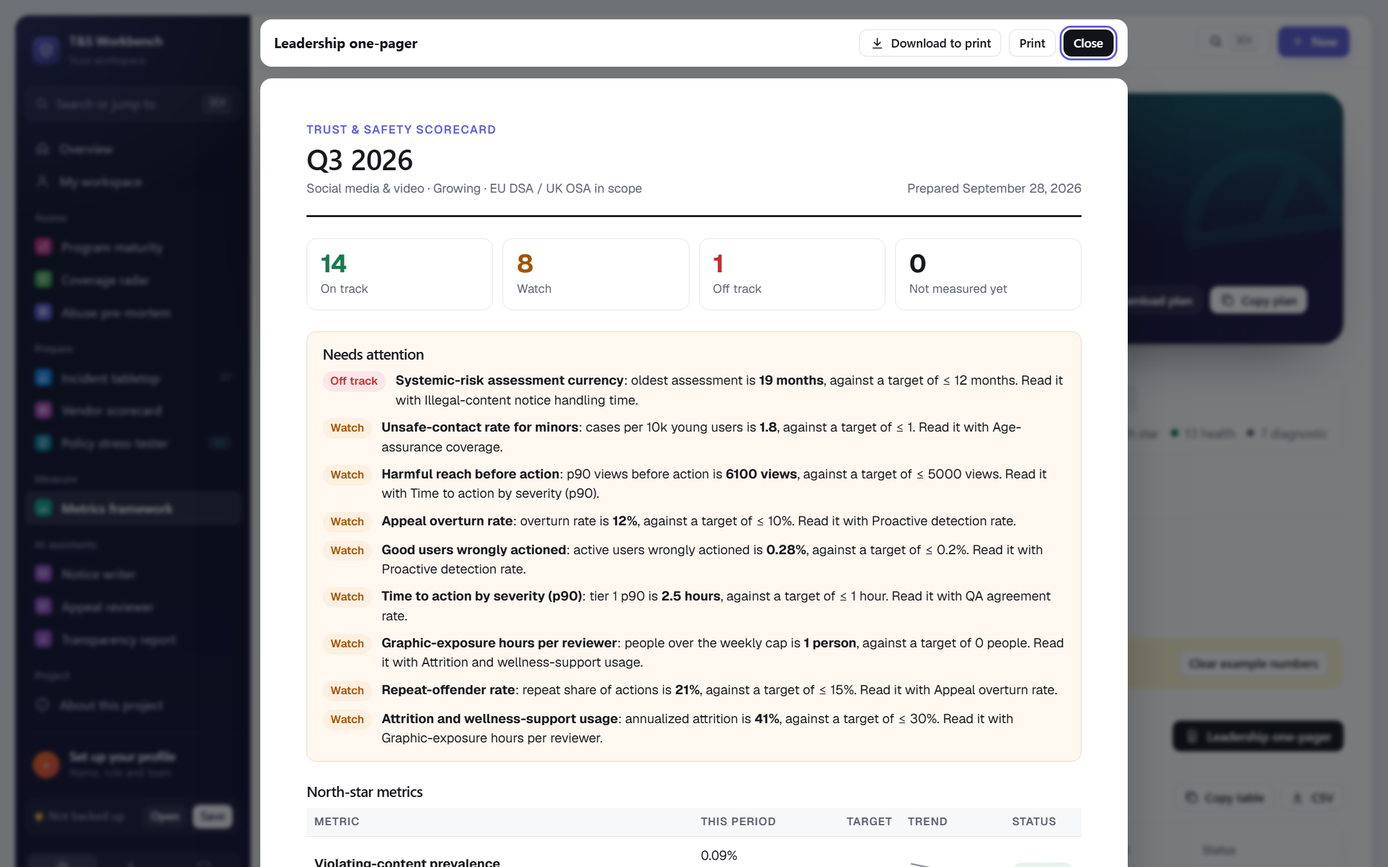
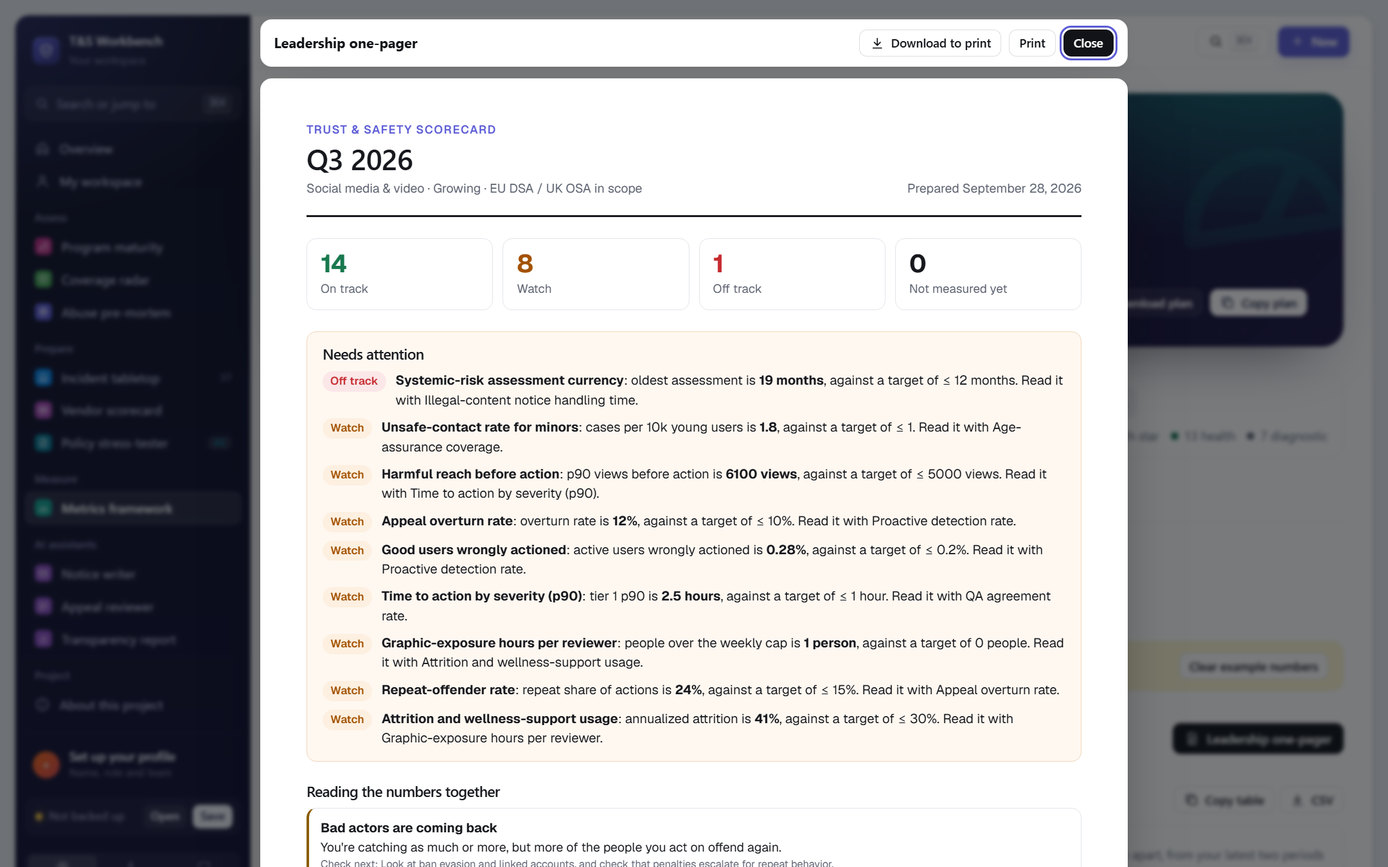
Metrics: read the numbers together, with signals on the scorecard and one-pager

diff --git a/docs/index.html b/docs/index.html
@@ -2894,6 +2894,26 @@ body.tt-present .ttf-play{grid-template-columns:minmax(0,1fr) 360px}
 .gt:focus-visible{outline:2px solid var(--accent);outline-offset:2px;border-radius:3px}
 #gt-tip{position:fixed;z-index:70;padding:9px 12px;border-radius:10px;background:var(--ink);color:var(--bg);font-size:13px;line-height:1.5;box-shadow:var(--shadow-lift);pointer-events:none}
 @media (max-width:640px){.wb{flex-wrap:wrap}.wb-t{flex-basis:calc(100% - 90px)}.wb .btn{order:3;width:100%;justify-content:center}.ph-help{margin-left:0}}
+
+/* ---------- Metrics: reading the numbers together ---------- */
+.mx-sig{padding:18px 20px;margin:0 0 16px}
+.mx-sig-h{display:flex;align-items:baseline;justify-content:space-between;gap:6px 16px;flex-wrap:wrap;margin-bottom:12px}
+.mx-sig-h h3{margin:0;font-size:17px;letter-spacing:-.01em}
+.mx-sig .note{margin:0}
+.mx-sig-l{list-style:none;margin:0;padding:0;display:grid;grid-template-columns:repeat(auto-fit,minmax(min(100%,300px),1fr));gap:12px}
+.mx-sig-i{padding:14px 16px;border-radius:12px;background:var(--surface-2);border:1px solid var(--line);border-left:3px solid var(--med)}
+.mx-sig-i.good{border-left-color:var(--good)}
+.mx-sig-tone{font-size:11.5px;font-weight:600;letter-spacing:.04em;text-transform:uppercase;color:var(--med)}
+.mx-sig-i.good .mx-sig-tone{color:var(--good)}
+.mx-sig-i h4{margin:4px 0 6px;font-size:15.5px;letter-spacing:-.01em}
+.mx-sig-i p{margin:0 0 6px;font-size:14px;line-height:1.55;color:var(--muted)}
+.mx-sig-i p:last-child{margin:0}
+.mx-sig-why{font-size:13px!important}
+.mx-sig-why .mx-link,.mx-sig-why b{color:var(--ink);font-weight:600}
+.mx-sig-and{color:var(--faint)}
+.mx-sig-d{font-size:12.5px;white-space:nowrap}
+.mx-sig-d.good{color:var(--good)}.mx-sig-d.crit{color:var(--high)}
+.mx-sig-c b{color:var(--ink)}
 </style>
 
 <svg width="0" height="0" style="position:absolute" aria-hidden="true">
@@ -6949,7 +6969,7 @@ const MX_DEMO = {
   "Romance-scam reports per 10k matches":[2, 4, [4.6, 3.9, 3.1, 1.9]],
   "Verified-profile share":[60, 40, [31, 38, 47, 55]],
   "User-report rate":[3, 8, [4.2, 4.8, 5.1, 4.6]],
-  "Repeat-offender rate":[15, 25, [29, 27, 24, 21]],
+  "Repeat-offender rate":[15, 25, [29, 27, 22, 24]],
   "Proactive detection rate":[80, 65, [68, 72, 77, 81]],
   "Precision and recall by policy area":[90, 80, [84, 86, 88, 91]],
   "Time to detect emerging trends":[3, 7, [11, 9, 6, 4]],
@@ -6973,6 +6993,11 @@ const MX_DEMO = {
 
 // The one-pager is a paper document, so it uses fixed light colors in the app and in the downloaded file
 const MX_OP_CSS = `
+  .op-sig ul{list-style:none;margin:0;padding:0;display:grid;gap:10px}
+  .op-sig li{padding:10px 12px;border-radius:10px;border:1px solid #e3e5ea;border-left:3px solid #8A5D00;font-size:13px;line-height:1.5}
+  .op-sig li.good{border-left-color:#1C7550}
+  .op-sig li b{display:block;font-size:13.5px}
+  .op-sig li small{display:block;color:#5F6573}
 .mxop{--ink:#16181d;--muted:#5d6370;--line:#e3e5ea;--good:#18794e;--med:#a35200;--crit:#c62a2f;--acc:#5b5bd6;
   font:14px/1.5 Geist,ui-sans-serif,system-ui,-apple-system,"Segoe UI",sans-serif;color:var(--ink);background:#fff;max-width:900px;margin:0 auto;padding:44px 48px;box-sizing:border-box}
 .mxop *{box-sizing:border-box}
@@ -7019,6 +7044,83 @@ const MX_OP_PRINT = `
   .mxop-bar{display:none !important}
   .mxop{box-shadow:none !important;margin:0 !important;border-radius:0 !important}
 }`;
+
+/* ---------- Reading the numbers together ---------- */
+// Pairs of metrics whose movements mean more together than apart. Directions compare the latest two periods;
+// "notup" is flat or down, "notdown" is flat or up. The first rule with a given title wins.
+const MX_SIG = [
+  {a:"Proactive detection rate", da:"up", b:"Appeal overturn rate", db:"up", tone:"watch", t:"Automation may be over-enforcing",
+    m:"You're catching more before anyone reports it, but more of your decisions are being reversed on appeal.",
+    c:"Split overturns by enforcement source. If automated decisions are overturned more often than human ones, tighten thresholds where proactive detection grew."},
+  {a:"Proactive detection rate", da:"up", b:"Good users wrongly actioned", db:"up", tone:"watch", t:"Automation may be over-enforcing",
+    m:"You're catching more before anyone reports it, and more legitimate users are being caught with it.",
+    c:"Find which detections produced the wrongful actions, and raise their thresholds or send them to human review."},
+  {a:"Proactive detection rate", da:"up", b:"Violating-content prevalence", db:"notdown", tone:"watch", t:"More enforcement, but people see as much harm",
+    m:"Detection is catching more, yet the share of harmful content people actually see hasn't fallen.",
+    c:"Check whether the extra detections are low-reach content. Compare harmful reach before action for what you catch against what users report."},
+  {a:"Repeat-offender rate", da:"up", b:"Proactive detection rate", db:"notdown", tone:"watch", t:"Bad actors are coming back",
+    m:"You're catching as much or more, but more of the people you act on offend again.",
+    c:"Look at ban evasion and linked accounts, and check that penalties escalate for repeat behavior."},
+  {a:"Time to action by severity (p90)", da:"down", b:"QA agreement rate", db:"down", tone:"watch", t:"Speed may be costing accuracy",
+    m:"Decisions are getting faster while reviewers agree with QA less often.",
+    c:"Look at QA disagreements by queue and reviewer tenure, and check whether SLA pressure is rushing the hard cases."},
+  {a:"SLA attainment", da:"up", b:"Backlog age", db:"up", tone:"watch", t:"The SLA may be hiding old cases",
+    m:"You're meeting the SLA more often, but the oldest cases are waiting longer. Teams often hit an SLA by working the easy cases first.",
+    c:"Break backlog age down by severity, and check which queues the SLA clock leaves out."},
+  {a:"Harmful reach before action", da:"up", b:"Time to action by severity (p90)", db:"notup", tone:"watch", t:"Harm spreads before you see it",
+    m:"Review is at least as fast as before, but harmful content reaches more people first. The delay is in detection, not review.",
+    c:"Check time to detect and proactive coverage for fast-spreading formats such as live video and reshares."},
+  {a:"Cost per decision", da:"down", b:"QA agreement rate", db:"down", tone:"watch", t:"Savings may be coming out of quality",
+    m:"Each decision costs less, and quality is slipping at the same time.",
+    c:"Check where the savings came from, such as a new vendor site, less training or more automation, and whether quality fell in the same places."},
+  {a:"Cost per decision", da:"down", b:"Appeal overturn rate", db:"up", tone:"watch", t:"Savings may be coming out of quality",
+    m:"Each decision costs less, and more of them are being reversed on appeal.",
+    c:"Check where the savings came from and whether overturns rose in the same queues."},
+  {a:"Graphic-exposure hours per reviewer", da:"up", b:"Attrition and wellness-support usage", db:"up", tone:"watch", t:"Reviewer strain is building",
+    m:"Reviewers are seeing more graphic content, and attrition or wellness-support use is rising with it.",
+    c:"Check exposure caps and rotation, and talk to your vendor about staffing before quality drops."},
+  {a:"User-report rate", da:"down", b:"Users who feel safe", db:"down", tone:"watch", t:"Fewer reports, but people feel less safe",
+    m:"Reports are falling while fewer users say they feel safe. People may have stopped reporting because they don't expect anything to happen.",
+    c:"Check how often reports lead to action and whether reporters hear back."},
+  {a:"Jailbreak success rate", da:"down", b:"Over-refusal rate", db:"up", tone:"watch", t:"Safer model, more refusals",
+    m:"Attacks succeed less often, but the model refuses more reasonable requests. It may be getting safer by being less useful.",
+    c:"Break refusals down by category and fix the ones that block legitimate use."},
+  {a:"Violating-generation rate", da:"down", b:"Over-refusal rate", db:"up", tone:"watch", t:"Safer model, more refusals",
+    m:"The model produces less violating output, but refuses more reasonable requests.",
+    c:"Break refusals down by category and fix the ones that block legitimate use."},
+  {a:"Account takeover rate", da:"up", b:"Fraud loss rate", db:"up", tone:"watch", t:"Account takeovers may be driving losses",
+    m:"More accounts are being taken over, and fraud losses are rising with them.",
+    c:"Measure how much of the loss comes from taken-over accounts, and review login protections such as multi-factor sign-in."},
+  {a:"Violating-content prevalence", da:"down", b:"Appeal overturn rate", db:"notup", tone:"good", t:"Real progress",
+    m:"People see less harmful content, and your mistakes haven't risen to get there.",
+    c:"Tell leadership what drove it, so it gets protected in planning."},
+  {a:"User-report rate", da:"down", b:"Users who feel safe", db:"up", tone:"good", t:"Fewer reports because there's less to report",
+    m:"Reports fell while more users say they feel safe, which points to less harm rather than less trust in reporting.",
+    c:"Confirm it with prevalence sampling before you plan around it."}
+];
+// The direction of a metric's latest change: up, down or flat (under 2% of the earlier value)
+function mxMove(m){
+  const s = mxSeries(m); if(s.length < 2) return null;
+  const a = s[s.length - 2].v, b = s[s.length - 1].v, d = b - a;
+  return Math.abs(d) <= Math.max(Math.abs(a) * 0.02, 1e-9) ? "flat" : d > 0 ? "up" : "down";
+}
+function mxSignals(){
+  const byName = n => METRICS.find(m => m.n === n), fits = (mv, want) => mv && (mv === want || (want === "notup" && mv !== "up") || (want === "notdown" && mv !== "down"));
+  const seen = new Set(), out = [];
+  MX_SIG.forEach(r => { if(seen.has(r.t)) return; const A = byName(r.a), B = byName(r.b); if(!A || !B) return;
+    if(fits(mxMove(A), r.da) && fits(mxMove(B), r.db)){ seen.add(r.t); out.push(Object.assign({A, B}, r)); } });
+  return out.sort((x, y) => (x.tone === "good") - (y.tone === "good"));
+}
+function mxSigHTML(list, onePager){
+  const withTrend = METRICS.filter(m => mxSeries(m).length >= 2).length, sig = mxSignals();
+  if(onePager) return sig.length ? `<section class="op-sig"><h2>Reading the numbers together</h2><ul>${sig.slice(0, 4).map(s => `<li class="${s.tone}"><b>${esc(s.t)}</b>${esc(s.m)}<small>Check next: ${esc(s.c)}</small></li>`).join("")}</ul></section>` : "";
+  const name = m => { const d = mxDelta(m), i = METRICS.indexOf(m); return `${list.includes(m) ? `<button type="button" class="mx-link" data-go="${i}">${esc(m.n)}</button>` : `<b>${esc(m.n)}</b>`}${d ? ` <span class="mx-sig-d ${d.good}">${esc(d.text)}</span>` : ""}`; };
+  const body = !withTrend ? `<p class="note">Save two periods to history and this reads your metrics together: for example, whether more automation is also causing more mistakes, or whether a healthy SLA is hiding old cases.</p>`
+    : !sig.length ? `<p class="note">No patterns to flag between your metrics this period. ${withTrend < 4 ? "Track a few more metrics over time to get more out of this." : ""}</p>`
+    : `<ul class="mx-sig-l">${sig.slice(0, 5).map(s => `<li class="mx-sig-i ${s.tone}"><span class="mx-sig-tone">${s.tone === "good" ? "Good sign" : "Worth a look"}</span><h4>${esc(s.t)}</h4>
+        <p class="mx-sig-why">${name(s.A)} <span class="mx-sig-and">with</span> ${name(s.B)}</p><p>${esc(s.m)}</p><p class="mx-sig-c"><b>Check next:</b> ${esc(s.c)}</p></li>`).join("")}</ul>`;
+  return `<div class="mx-sig-h"><h3>What your numbers are telling you</h3><span class="note">Pairs of metrics that mean more together than apart, from your latest two periods</span></div>${body}`;
+}
 
 /* ---------- Metrics: child-safety reporting, user sentiment, wrongful enforcement, law-enforcement requests ---------- */
 METRICS.push(
@@ -7462,6 +7564,7 @@ function mxTabMine(list){
     <span class="mxs-hist" id="mx-hist">${mxHistHTML()}</span>
     <span class="mxs-act">${mx.demo ? "" : `<button type="button" class="btn sm" id="mx-demo">See example numbers</button>`}<button type="button" class="btn sm" id="mx-sc-copy">${icon("copy")}Copy table</button>${DL ? `<button type="button" class="btn sm" id="mx-sc-csv"><svg><use href="#i-download"/></svg>CSV</button>` : ""}</span>
   </div>
+  <div class="card mx-sig" id="mx-sig">${mxSigHTML(list)}</div>
   <div class="card mx-sc">
     <div class="mx-sc-row h"><span>Metric</span><span>Your value</span><span>Target</span><span>Off track at</span><span>Trend</span><span>Status</span></div>
     ${MX_TORD.map(t => { const ms = list.filter(m => m.t === t); if(!ms.length) return "";
@@ -7571,6 +7674,7 @@ function mxOnePagerInner(list){
     </section>
     ${att.length ? `<section class="op-att"><h2>Needs attention</h2><ul>${att.map(m => { const st = mxStatus(m, mx.vals), H = MX_HOW[m.n];
       return `<li><span class="op-st ${cls(st)}">${MX_STAT[st][0]}</span><span><b>${esc(m.n)}</b>: ${esc(MX_SC[m.n][0].charAt(0).toLowerCase() + MX_SC[m.n][0].slice(1))} is <b>${esc(val(m))}</b>, against a target of ${esc((mxTargetText(m) || "not set").replace(/^≤ 0 /, "0 "))}. Read it with ${esc(H.pair)}.</span></li>`; }).join("")}</ul></section>` : ""}
+    ${mxSigHTML(list, true)}
     ${MX_TORD.map(t => { const ms = measured.filter(m => m.t === t); if(!ms.length) return "";
       return `<section class="op-sec"><h2>${MX_TIER_NAME[t]}</h2><table><thead><tr><th>Metric</th><th>This period</th><th>Target</th><th>Trend</th><th>Status</th></tr></thead><tbody>${ms.map(row).join("")}</tbody></table></section>`; }).join("")}
     <footer class="op-f">Status compares each value with the program's own target and off-track line. ${(mx.hist || []).length ? `Trends cover ${esc((mx.hist || []).map(h => h.p).concat(mx.period ? [mx.period] : []).filter((p, j, a) => a.indexOf(p) === j).join(", "))}. ` : ""}Made with T&amp;S Workbench.</footer>`;
@@ -7644,6 +7748,7 @@ function mxSetVal(m, inp, list){
   view.querySelectorAll(`[data-trend="${i}"]`).forEach(el => el.innerHTML = mxTrendHTML(m));
   view.querySelectorAll(`[data-spark="${i}"]`).forEach(el => el.innerHTML = mxSpark(m));
   const sum = $("#mx-sc-sum"); if(sum) sum.innerHTML = mxSumHTML(list);
+  const sig = $("#mx-sig"); if(sig){ sig.innerHTML = mxSigHTML(list); sig.querySelectorAll("[data-go]").forEach(b => b.onclick = () => mxGo(mxSlug(METRICS[+b.dataset.go]))); }
 }
 
 // Glossary tooltips: open on tap, and flip left when a term sits near the right edge

diff --git a/src/partMXd5.js b/src/partMXd5.js
@@ -14,7 +14,7 @@ const MX_DEMO = {
   "Romance-scam reports per 10k matches":[2, 4, [4.6, 3.9, 3.1, 1.9]],
   "Verified-profile share":[60, 40, [31, 38, 47, 55]],
   "User-report rate":[3, 8, [4.2, 4.8, 5.1, 4.6]],
-  "Repeat-offender rate":[15, 25, [29, 27, 24, 21]],
+  "Repeat-offender rate":[15, 25, [29, 27, 22, 24]],
   "Proactive detection rate":[80, 65, [68, 72, 77, 81]],
   "Precision and recall by policy area":[90, 80, [84, 86, 88, 91]],
   "Time to detect emerging trends":[3, 7, [11, 9, 6, 4]],
@@ -38,6 +38,11 @@ const MX_DEMO = {
 
 // The one-pager is a paper document, so it uses fixed light colors in the app and in the downloaded file
 const MX_OP_CSS = `
+  .op-sig ul{list-style:none;margin:0;padding:0;display:grid;gap:10px}
+  .op-sig li{padding:10px 12px;border-radius:10px;border:1px solid #e3e5ea;border-left:3px solid #8A5D00;font-size:13px;line-height:1.5}
+  .op-sig li.good{border-left-color:#1C7550}
+  .op-sig li b{display:block;font-size:13.5px}
+  .op-sig li small{display:block;color:#5F6573}
 .mxop{--ink:#16181d;--muted:#5d6370;--line:#e3e5ea;--good:#18794e;--med:#a35200;--crit:#c62a2f;--acc:#5b5bd6;
   font:14px/1.5 Geist,ui-sans-serif,system-ui,-apple-system,"Segoe UI",sans-serif;color:var(--ink);background:#fff;max-width:900px;margin:0 auto;padding:44px 48px;box-sizing:border-box}
 .mxop *{box-sizing:border-box}
@@ -84,3 +89,80 @@ const MX_OP_PRINT = `
   .mxop-bar{display:none !important}
   .mxop{box-shadow:none !important;margin:0 !important;border-radius:0 !important}
 }`;
+
+/* ---------- Reading the numbers together ---------- */
+// Pairs of metrics whose movements mean more together than apart. Directions compare the latest two periods;
+// "notup" is flat or down, "notdown" is flat or up. The first rule with a given title wins.
+const MX_SIG = [
+  {a:"Proactive detection rate", da:"up", b:"Appeal overturn rate", db:"up", tone:"watch", t:"Automation may be over-enforcing",
+    m:"You're catching more before anyone reports it, but more of your decisions are being reversed on appeal.",
+    c:"Split overturns by enforcement source. If automated decisions are overturned more often than human ones, tighten thresholds where proactive detection grew."},
+  {a:"Proactive detection rate", da:"up", b:"Good users wrongly actioned", db:"up", tone:"watch", t:"Automation may be over-enforcing",
+    m:"You're catching more before anyone reports it, and more legitimate users are being caught with it.",
+    c:"Find which detections produced the wrongful actions, and raise their thresholds or send them to human review."},
+  {a:"Proactive detection rate", da:"up", b:"Violating-content prevalence", db:"notdown", tone:"watch", t:"More enforcement, but people see as much harm",
+    m:"Detection is catching more, yet the share of harmful content people actually see hasn't fallen.",
+    c:"Check whether the extra detections are low-reach content. Compare harmful reach before action for what you catch against what users report."},
+  {a:"Repeat-offender rate", da:"up", b:"Proactive detection rate", db:"notdown", tone:"watch", t:"Bad actors are coming back",
+    m:"You're catching as much or more, but more of the people you act on offend again.",
+    c:"Look at ban evasion and linked accounts, and check that penalties escalate for repeat behavior."},
+  {a:"Time to action by severity (p90)", da:"down", b:"QA agreement rate", db:"down", tone:"watch", t:"Speed may be costing accuracy",
+    m:"Decisions are getting faster while reviewers agree with QA less often.",
+    c:"Look at QA disagreements by queue and reviewer tenure, and check whether SLA pressure is rushing the hard cases."},
+  {a:"SLA attainment", da:"up", b:"Backlog age", db:"up", tone:"watch", t:"The SLA may be hiding old cases",
+    m:"You're meeting the SLA more often, but the oldest cases are waiting longer. Teams often hit an SLA by working the easy cases first.",
+    c:"Break backlog age down by severity, and check which queues the SLA clock leaves out."},
+  {a:"Harmful reach before action", da:"up", b:"Time to action by severity (p90)", db:"notup", tone:"watch", t:"Harm spreads before you see it",
+    m:"Review is at least as fast as before, but harmful content reaches more people first. The delay is in detection, not review.",
+    c:"Check time to detect and proactive coverage for fast-spreading formats such as live video and reshares."},
+  {a:"Cost per decision", da:"down", b:"QA agreement rate", db:"down", tone:"watch", t:"Savings may be coming out of quality",
+    m:"Each decision costs less, and quality is slipping at the same time.",
+    c:"Check where the savings came from, such as a new vendor site, less training or more automation, and whether quality fell in the same places."},
+  {a:"Cost per decision", da:"down", b:"Appeal overturn rate", db:"up", tone:"watch", t:"Savings may be coming out of quality",
+    m:"Each decision costs less, and more of them are being reversed on appeal.",
+    c:"Check where the savings came from and whether overturns rose in the same queues."},
+  {a:"Graphic-exposure hours per reviewer", da:"up", b:"Attrition and wellness-support usage", db:"up", tone:"watch", t:"Reviewer strain is building",
+    m:"Reviewers are seeing more graphic content, and attrition or wellness-support use is rising with it.",
+    c:"Check exposure caps and rotation, and talk to your vendor about staffing before quality drops."},
+  {a:"User-report rate", da:"down", b:"Users who feel safe", db:"down", tone:"watch", t:"Fewer reports, but people feel less safe",
+    m:"Reports are falling while fewer users say they feel safe. People may have stopped reporting because they don't expect anything to happen.",
+    c:"Check how often reports lead to action and whether reporters hear back."},
+  {a:"Jailbreak success rate", da:"down", b:"Over-refusal rate", db:"up", tone:"watch", t:"Safer model, more refusals",
+    m:"Attacks succeed less often, but the model refuses more reasonable requests. It may be getting safer by being less useful.",
+    c:"Break refusals down by category and fix the ones that block legitimate use."},
+  {a:"Violating-generation rate", da:"down", b:"Over-refusal rate", db:"up", tone:"watch", t:"Safer model, more refusals",
+    m:"The model produces less violating output, but refuses more reasonable requests.",
+    c:"Break refusals down by category and fix the ones that block legitimate use."},
+  {a:"Account takeover rate", da:"up", b:"Fraud loss rate", db:"up", tone:"watch", t:"Account takeovers may be driving losses",
+    m:"More accounts are being taken over, and fraud losses are rising with them.",
+    c:"Measure how much of the loss comes from taken-over accounts, and review login protections such as multi-factor sign-in."},
+  {a:"Violating-content prevalence", da:"down", b:"Appeal overturn rate", db:"notup", tone:"good", t:"Real progress",
+    m:"People see less harmful content, and your mistakes haven't risen to get there.",
+    c:"Tell leadership what drove it, so it gets protected in planning."},
+  {a:"User-report rate", da:"down", b:"Users who feel safe", db:"up", tone:"good", t:"Fewer reports because there's less to report",
+    m:"Reports fell while more users say they feel safe, which points to less harm rather than less trust in reporting.",
+    c:"Confirm it with prevalence sampling before you plan around it."}
+];
+// The direction of a metric's latest change: up, down or flat (under 2% of the earlier value)
+function mxMove(m){
+  const s = mxSeries(m); if(s.length < 2) return null;
+  const a = s[s.length - 2].v, b = s[s.length - 1].v, d = b - a;
+  return Math.abs(d) <= Math.max(Math.abs(a) * 0.02, 1e-9) ? "flat" : d > 0 ? "up" : "down";
+}
+function mxSignals(){
+  const byName = n => METRICS.find(m => m.n === n), fits = (mv, want) => mv && (mv === want || (want === "notup" && mv !== "up") || (want === "notdown" && mv !== "down"));
+  const seen = new Set(), out = [];
+  MX_SIG.forEach(r => { if(seen.has(r.t)) return; const A = byName(r.a), B = byName(r.b); if(!A || !B) return;
+    if(fits(mxMove(A), r.da) && fits(mxMove(B), r.db)){ seen.add(r.t); out.push(Object.assign({A, B}, r)); } });
+  return out.sort((x, y) => (x.tone === "good") - (y.tone === "good"));
+}
+function mxSigHTML(list, onePager){
+  const withTrend = METRICS.filter(m => mxSeries(m).length >= 2).length, sig = mxSignals();
+  if(onePager) return sig.length ? `<section class="op-sig"><h2>Reading the numbers together</h2><ul>${sig.slice(0, 4).map(s => `<li class="${s.tone}"><b>${esc(s.t)}</b>${esc(s.m)}<small>Check next: ${esc(s.c)}</small></li>`).join("")}</ul></section>` : "";
+  const name = m => { const d = mxDelta(m), i = METRICS.indexOf(m); return `${list.includes(m) ? `<button type="button" class="mx-link" data-go="${i}">${esc(m.n)}</button>` : `<b>${esc(m.n)}</b>`}${d ? ` <span class="mx-sig-d ${d.good}">${esc(d.text)}</span>` : ""}`; };
+  const body = !withTrend ? `<p class="note">Save two periods to history and this reads your metrics together: for example, whether more automation is also causing more mistakes, or whether a healthy SLA is hiding old cases.</p>`
+    : !sig.length ? `<p class="note">No patterns to flag between your metrics this period. ${withTrend < 4 ? "Track a few more metrics over time to get more out of this." : ""}</p>`
+    : `<ul class="mx-sig-l">${sig.slice(0, 5).map(s => `<li class="mx-sig-i ${s.tone}"><span class="mx-sig-tone">${s.tone === "good" ? "Good sign" : "Worth a look"}</span><h4>${esc(s.t)}</h4>
+        <p class="mx-sig-why">${name(s.A)} <span class="mx-sig-and">with</span> ${name(s.B)}</p><p>${esc(s.m)}</p><p class="mx-sig-c"><b>Check next:</b> ${esc(s.c)}</p></li>`).join("")}</ul>`;
+  return `<div class="mx-sig-h"><h3>What your numbers are telling you</h3><span class="note">Pairs of metrics that mean more together than apart, from your latest two periods</span></div>${body}`;
+}

diff --git a/src/partMX.js b/src/partMX.js
@@ -295,6 +295,7 @@ function mxTabMine(list){
     <span class="mxs-hist" id="mx-hist">${mxHistHTML()}</span>
     <span class="mxs-act">${mx.demo ? "" : `<button type="button" class="btn sm" id="mx-demo">See example numbers</button>`}<button type="button" class="btn sm" id="mx-sc-copy">${icon("copy")}Copy table</button>${DL ? `<button type="button" class="btn sm" id="mx-sc-csv"><svg><use href="#i-download"/></svg>CSV</button>` : ""}</span>
   </div>
+  <div class="card mx-sig" id="mx-sig">${mxSigHTML(list)}</div>
   <div class="card mx-sc">
     <div class="mx-sc-row h"><span>Metric</span><span>Your value</span><span>Target</span><span>Off track at</span><span>Trend</span><span>Status</span></div>
     ${MX_TORD.map(t => { const ms = list.filter(m => m.t === t); if(!ms.length) return "";
@@ -404,6 +405,7 @@ function mxOnePagerInner(list){
     </section>
     ${att.length ? `<section class="op-att"><h2>Needs attention</h2><ul>${att.map(m => { const st = mxStatus(m, mx.vals), H = MX_HOW[m.n];
       return `<li><span class="op-st ${cls(st)}">${MX_STAT[st][0]}</span><span><b>${esc(m.n)}</b>: ${esc(MX_SC[m.n][0].charAt(0).toLowerCase() + MX_SC[m.n][0].slice(1))} is <b>${esc(val(m))}</b>, against a target of ${esc((mxTargetText(m) || "not set").replace(/^≤ 0 /, "0 "))}. Read it with ${esc(H.pair)}.</span></li>`; }).join("")}</ul></section>` : ""}
+    ${mxSigHTML(list, true)}
     ${MX_TORD.map(t => { const ms = measured.filter(m => m.t === t); if(!ms.length) return "";
       return `<section class="op-sec"><h2>${MX_TIER_NAME[t]}</h2><table><thead><tr><th>Metric</th><th>This period</th><th>Target</th><th>Trend</th><th>Status</th></tr></thead><tbody>${ms.map(row).join("")}</tbody></table></section>`; }).join("")}
     <footer class="op-f">Status compares each value with the program's own target and off-track line. ${(mx.hist || []).length ? `Trends cover ${esc((mx.hist || []).map(h => h.p).concat(mx.period ? [mx.period] : []).filter((p, j, a) => a.indexOf(p) === j).join(", "))}. ` : ""}Made with T&amp;S Workbench.</footer>`;
@@ -477,6 +479,7 @@ function mxSetVal(m, inp, list){
   view.querySelectorAll(`[data-trend="${i}"]`).forEach(el => el.innerHTML = mxTrendHTML(m));
   view.querySelectorAll(`[data-spark="${i}"]`).forEach(el => el.innerHTML = mxSpark(m));
   const sum = $("#mx-sc-sum"); if(sum) sum.innerHTML = mxSumHTML(list);
+  const sig = $("#mx-sig"); if(sig){ sig.innerHTML = mxSigHTML(list); sig.querySelectorAll("[data-go]").forEach(b => b.onclick = () => mxGo(mxSlug(METRICS[+b.dataset.go]))); }
 }
 
 // Glossary tooltips: open on tap, and flip left when a term sits near the right edge

diff --git a/src/partZ8.css b/src/partZ8.css
@@ -954,3 +954,23 @@ body.tt-present .ttf-play{grid-template-columns:minmax(0,1fr) 360px}
 .gt:focus-visible{outline:2px solid var(--accent);outline-offset:2px;border-radius:3px}
 #gt-tip{position:fixed;z-index:70;padding:9px 12px;border-radius:10px;background:var(--ink);color:var(--bg);font-size:13px;line-height:1.5;box-shadow:var(--shadow-lift);pointer-events:none}
 @media (max-width:640px){.wb{flex-wrap:wrap}.wb-t{flex-basis:calc(100% - 90px)}.wb .btn{order:3;width:100%;justify-content:center}.ph-help{margin-left:0}}
+
+/* ---------- Metrics: reading the numbers together ---------- */
+.mx-sig{padding:18px 20px;margin:0 0 16px}
+.mx-sig-h{display:flex;align-items:baseline;justify-content:space-between;gap:6px 16px;flex-wrap:wrap;margin-bottom:12px}
+.mx-sig-h h3{margin:0;font-size:17px;letter-spacing:-.01em}
+.mx-sig .note{margin:0}
+.mx-sig-l{list-style:none;margin:0;padding:0;display:grid;grid-template-columns:repeat(auto-fit,minmax(min(100%,300px),1fr));gap:12px}
+.mx-sig-i{padding:14px 16px;border-radius:12px;background:var(--surface-2);border:1px solid var(--line);border-left:3px solid var(--med)}
+.mx-sig-i.good{border-left-color:var(--good)}
+.mx-sig-tone{font-size:11.5px;font-weight:600;letter-spacing:.04em;text-transform:uppercase;color:var(--med)}
+.mx-sig-i.good .mx-sig-tone{color:var(--good)}
+.mx-sig-i h4{margin:4px 0 6px;font-size:15.5px;letter-spacing:-.01em}
+.mx-sig-i p{margin:0 0 6px;font-size:14px;line-height:1.55;color:var(--muted)}
+.mx-sig-i p:last-child{margin:0}
+.mx-sig-why{font-size:13px!important}
+.mx-sig-why .mx-link,.mx-sig-why b{color:var(--ink);font-weight:600}
+.mx-sig-and{color:var(--faint)}
+.mx-sig-d{font-size:12.5px;white-space:nowrap}
+.mx-sig-d.good{color:var(--good)}.mx-sig-d.crit{color:var(--high)}
+.mx-sig-c b{color:var(--ink)}

diff --git a/src/test-mx.js b/src/test-mx.js
@@ -88,6 +88,11 @@ const body = function(){
   const op = mxOnePagerInner(l2); eq(/Needs attention/.test(op) && /op-tiles/.test(op) && !bad(op), true, "one-pager renders");
   eq(/<html/.test(mxOnePagerDoc(l2)) && mxOnePagerDoc(l2).includes("MX_OP") === false, true, "one-pager downloads as a standalone page");
   const csvH = mxScoreCsv(l2).split("\n")[0]; eq(csvH.includes('"Q4 2025"') && csvH.includes('"Value (Q3 2026)"'), true, "CSV includes saved periods");
+  // reading the numbers together: the example program shows a warning and a good sign
+  const sigT = mxSignals().map(s => s.t);
+  eq(sigT.includes("Bad actors are coming back") && sigT.includes("Real progress"), true, "signals from example numbers: " + sigT.join(" | "));
+  eq(mxSignals()[0].tone, "watch", "warnings come before good signs");
+  eq(mxSigHTML(l2).includes("What your numbers are telling you") && mxOnePagerInner(l2).includes("Reading the numbers together"), true, "signals on the scorecard and the one-pager");
   mxClearDemo(); eq(mx.vals["Fraud loss rate"].v + "|" + mx.period + "|" + !!mx.demo, "50|Mine|false", "clearing example numbers restores your own");
   eq(mxFmt(METRICS.find(m => m.n === "Graphic-exposure hours per reviewer"), 1), "1 person", "singular units");
   eq(mxOnePagerInner([]).includes("Nothing to show yet"), true, "empty one-pager explains itself");
